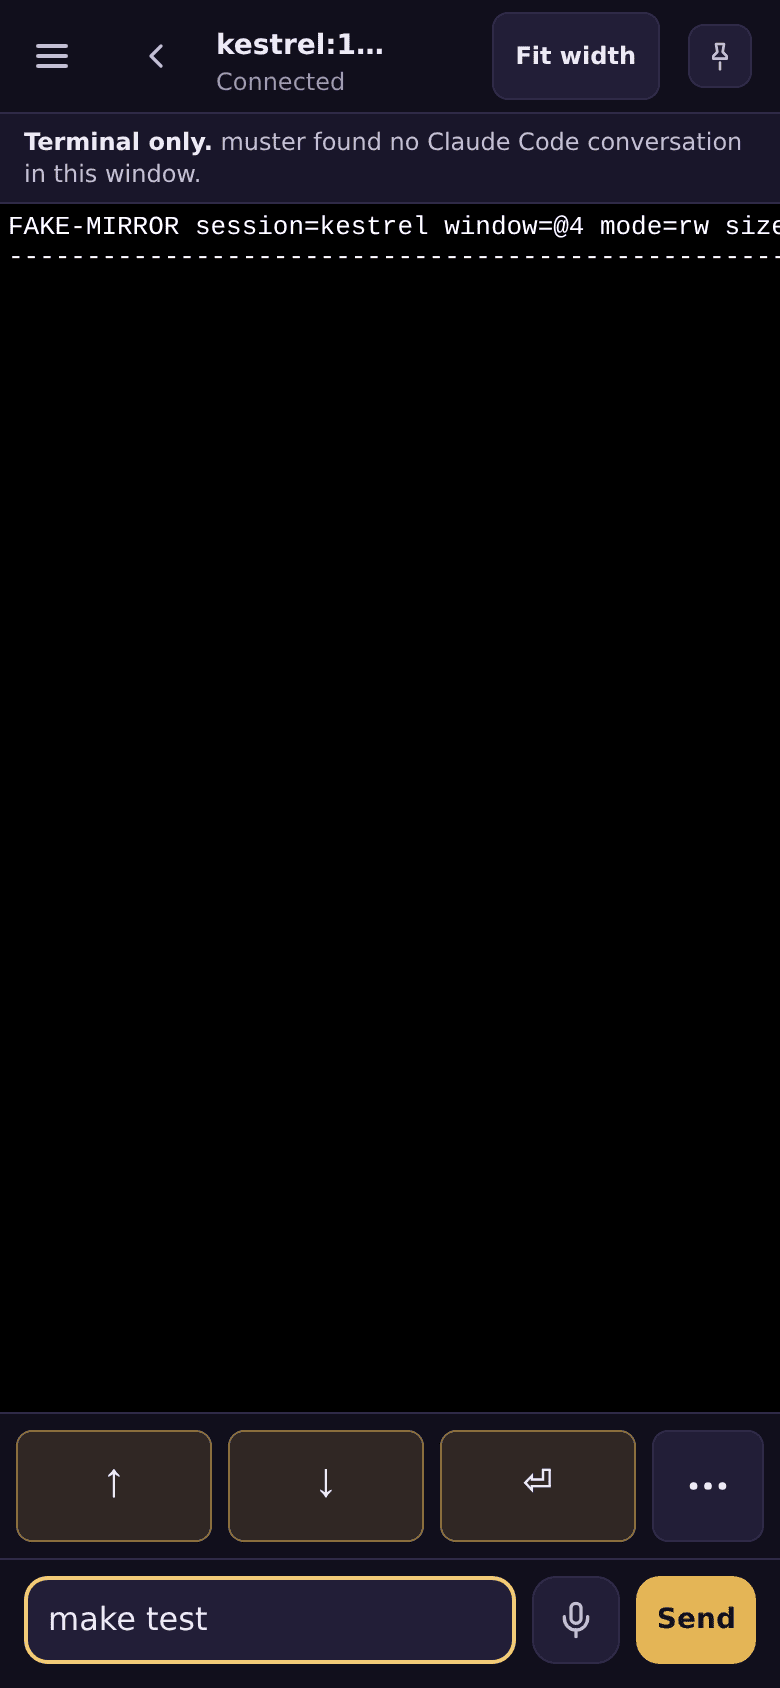
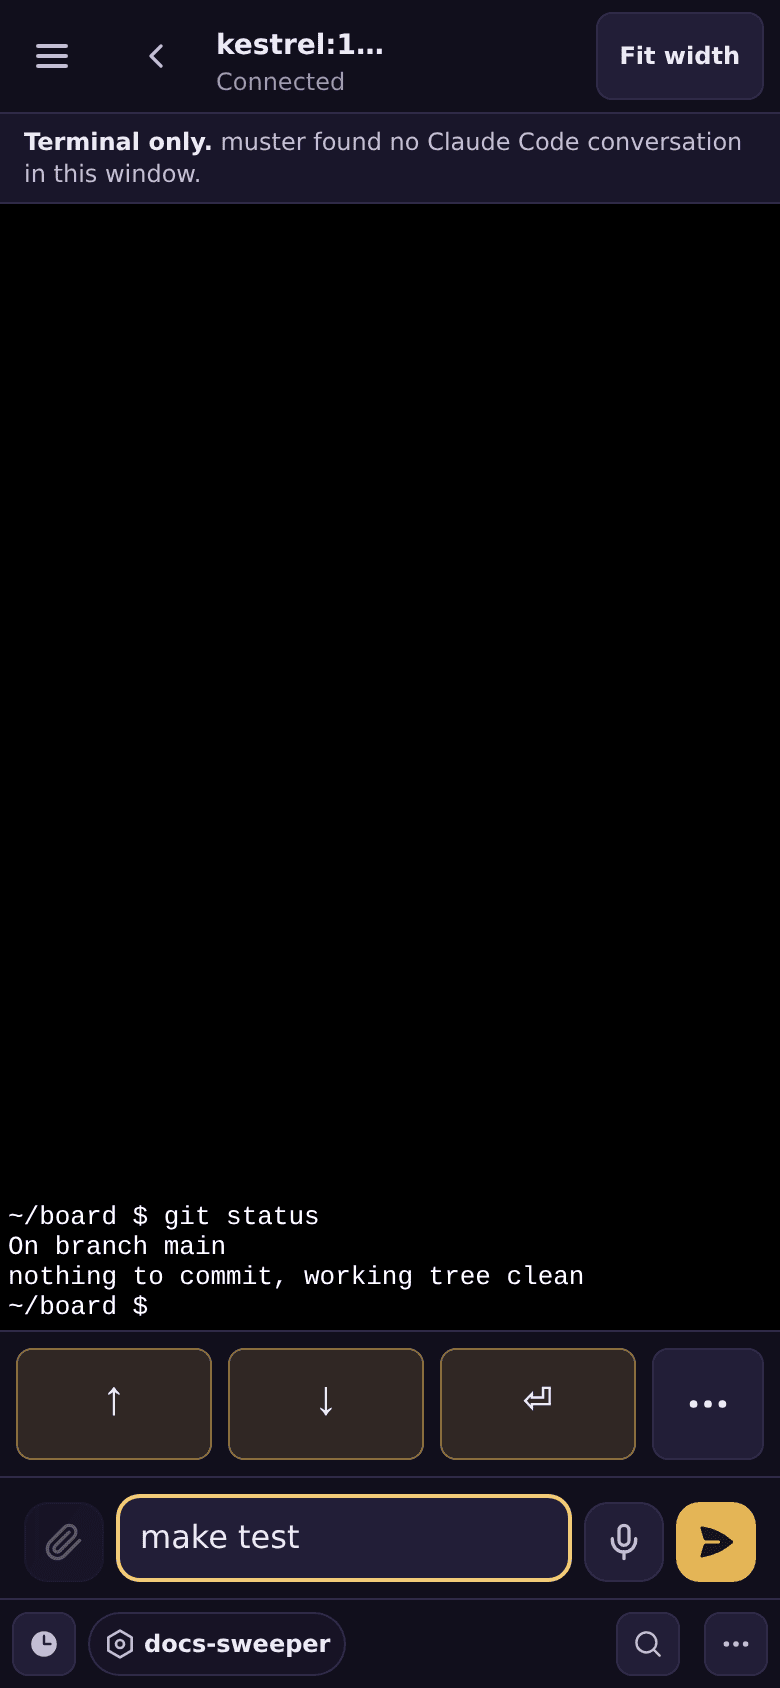
docshots: re-enable mirror-terminal.png with a bottom-drawn prompt (#623)
The "Terminal only" banner never covered the terminal: it is in normal
flow and <main> starts at its bottom edge. The shot was blank because the
docshots fake prints its only text on row 1 of a 120x40 window, taller than
a phone's terminal, and the Terminal view deliberately holds an overflowing
view at its bottom (atBottom), so row 1 is scrolled out of #term-scroll.

- e2emirror fake: opt-in MUSTER_MIRROR_E2E_PROMPT draws lines ending on the
  window's bottom row, where a real prompt is. No other spec sets it.
- docs.spec.ts: the docshots mirror sets it; mirror-terminal.png runs by
  default again and asserts rows with text are drawn inside #term-scroll's
  visible rect (red with the old fixture: 0 rows; green: 4).
- verdict.mjs DOCSHOTS_COUNT 12 -> 13; docs/testing.md updated.
- docs/img/mirror-terminal.png regenerated (pngquant).

Closes #623

diff --git a/e2e/docshots/docs.spec.ts b/e2e/docshots/docs.spec.ts
@@ -160,6 +160,9 @@ test.use({
 
 const serverEnv = () => ({ ...process.env, DATABASE_URL: dsn, MUSTER_PUBLIC_URL: browserURL, MUSTER_GOTRUE_URL: gotrueURL, MUSTER_GOTRUE_JWT_SECRET: gotrueSecret });
 
+// The terminal shot's shell, in the fake's MUSTER_MIRROR_E2E_PROMPT.
+const TERMINAL_LINES = ['~/board $ git status', 'On branch main', 'nothing to commit, working tree clean', '~/board $ '];
+
 function startMirror(name: string, file: string) {
   const token = execFileSync(serverBinary(versionA), ['mirror', 'token', 'create', name], { env: serverEnv() }).toString().trim();
   expect(token.startsWith('mmt_'), 'a mirror token was minted').toBe(true);
@@ -175,6 +178,11 @@ function startMirror(name: string, file: string) {
       MUSTER_MIRROR_E2E_WINDOWS_FILE: file,
       MUSTER_MIRROR_E2E_PASTE_FILE: pasteFile,
       MUSTER_MIRROR_E2E_WINDOW: '120x40',
+      // A shell's last lines, drawn ending on the window's bottom row, where a
+      // real prompt is: the 40-row window is taller than a phone's terminal,
+      // and the Terminal view holds such a view at its bottom, so the fake's
+      // row-1 banner alone left the terminal shot blank (#623).
+      MUSTER_MIRROR_E2E_PROMPT: TERMINAL_LINES.join('|'),
       // Re-read the windows often, so a session going waiting (the ask-flow's
       // question) reaches muster in a moment rather than on the 5 s default.
       MUSTER_MIRROR_E2E_REFRESH: '500ms',
@@ -445,18 +453,27 @@ test('dictation.png — the mic recording into the message box', async ({ page }
   await page.locator('#mv-input').fill('');
 });
 
-// 🔴 OPTED OUT UNTIL #623: regenerated, this shot is blank — the "Terminal
-// only" banner covers the terminal's first rows, the only ones with text — so
-// docs/img/mirror-terminal.png stays at the last good capture. Not a test.skip:
-// `verdict.mjs --docshots` refuses any skip. MUSTER_E2E_DOCSHOTS_TERMINAL=1 puts
-// it back (and verdict.mjs's DOCSHOTS_COUNT counts the default run only); when
-// #623 is fixed, drop the condition and raise DOCSHOTS_COUNT to 13.
-if (process.env.MUSTER_E2E_DOCSHOTS_TERMINAL === '1') test('mirror-terminal.png — the terminal view of a shell window', async ({ page }) => {
+// 🔴 THE SHOT MUST SHOW TERMINAL TEXT, not just hold it in the DOM: #623's
+// blank image had the fake's only line on row 1 of a window taller than the
+// page, scrolled out of #term-scroll by the view's bottom pin. The check counts
+// the rows drawn inside #term-scroll's visible rect that carry text.
+test('mirror-terminal.png — the terminal view of a shell window', async ({ page }) => {
   await signIn(page);
   await page.goto(browserURL + '/mirror/terminal?' + q(host, 'kestrel', '@4'));
   await expect(page.locator('#term .xterm-rows')).toContainText('FAKE-MIRROR', { timeout: 20_000 });
   await expect(page.locator('#mv-input')).toBeEnabled();
   await page.locator('#mv-input').fill('make test');
+  const visibleRows = () =>
+    page.evaluate(() => {
+      const box = document.getElementById('term-scroll')!.getBoundingClientRect();
+      return [...document.querySelectorAll('#term .xterm-rows > div')]
+        .filter((r) => {
+          const b = r.getBoundingClientRect();
+          return b.top >= box.top - 0.5 && b.bottom <= box.bottom + 0.5 && (r.textContent ?? '').trim() !== '';
+        })
+        .map((r) => (r.textContent ?? '').trim());
+    });
+  await expect.poll(async () => (await visibleRows()).length, { message: 'rows with text inside the visible terminal' }).toBeGreaterThan(0);
   await shoot(page, 'mirror-terminal.png');
 });
 

diff --git a/cmd/muster-mirror/e2emirror.go b/cmd/muster-mirror/e2emirror.go
@@ -417,6 +417,28 @@ func e2eAttachQueries() string {
 	return "\x1b[c\x1b[>c\x1b[6n\x1b[?1004h"
 }
 
+// e2ePrompt is what the fake writes last on every attach when
+// MUSTER_MIRROR_E2E_PROMPT is set: its lines (separated by "|"), drawn so the
+// last one sits on the window's BOTTOM row, where a real shell's prompt is
+// once it has any history. Without it the fake's only text is its banner on
+// row 1, which a window taller than the page never shows: the Terminal view
+// holds an overflowing view at its bottom on purpose (terminal.go, atBottom),
+// so row 1 is scrolled out of sight (#623). The cursor is put on the last row
+// with a row past any window's height (a terminal clamps it), then moved up to
+// the first of the lines; no newline follows the last one, so nothing scrolls.
+func e2ePrompt() string {
+	v := os.Getenv("MUSTER_MIRROR_E2E_PROMPT")
+	if v == "" {
+		return ""
+	}
+	lines := strings.Split(v, "|")
+	up := ""
+	if len(lines) > 1 {
+		up = fmt.Sprintf("\x1b[%dA", len(lines)-1)
+	}
+	return "\x1b[9999;1H" + up + strings.Join(lines, "\r\n")
+}
+
 // edgeLine is a ruler ending exactly at the client's last column with
 // RIGHT-EDGE, so a browser test can scroll to it: on a client wider than the
 // page it is off-screen until scrolled.
@@ -435,7 +457,7 @@ func (fakeBackend) Attach(_ context.Context, session string, readOnly bool, cols
 		mode = "ro"
 	}
 	t := &fakeTerm{r: pr, w: pw}
-	go t.say(fmt.Sprintf("FAKE-MIRROR session=%s mode=%s size=%dx%d\r\n", session, mode, cols, rows) + edgeLine(cols) + e2eAttachQueries())
+	go t.say(fmt.Sprintf("FAKE-MIRROR session=%s mode=%s size=%dx%d\r\n", session, mode, cols, rows) + edgeLine(cols) + e2eAttachQueries() + e2ePrompt())
 	return t, nil
 }
 
@@ -620,7 +642,7 @@ func (w windowFake) AttachWindow(_ context.Context, session, window string, read
 		mode = "ro"
 	}
 	t := &fakeTerm{r: pr, w: pw}
-	go t.say(fmt.Sprintf("FAKE-MIRROR session=%s window=%s mode=%s size=%dx%d\r\n", session, window, mode, cols, rows) + edgeLine(cols) + e2eAttachQueries())
+	go t.say(fmt.Sprintf("FAKE-MIRROR session=%s window=%s mode=%s size=%dx%d\r\n", session, window, mode, cols, rows) + edgeLine(cols) + e2eAttachQueries() + e2ePrompt())
 	return t, nil
 }
 

diff --git a/docs/testing.md b/docs/testing.md
@@ -190,9 +190,10 @@ PWA manifest's install-sheet screenshots.
 a temp dir so `docs/img/` is untouched, and `node verdict.mjs --docshots` judges
 the report: exactly the expected number of passes, all from `docs.spec.ts`, and
 no skip. CI's `docshots` job runs it on every change, so a UI change that breaks
-the generator goes red at once. `mirror-terminal.png` is left out of both runs
-until #623 (its terminal comes out blank); `MUSTER_E2E_DOCSHOTS_TERMINAL=1` puts
-it back.
+the generator goes red at once. The `mirror-terminal.png` shot also checks that
+rows with text are drawn inside the visible terminal, not just present in the
+page (#623: a fixture printing only on row 1 of a window taller than the page
+gave a blank image, because the Terminal view holds such a view at its bottom).
 
 ## What green does not prove
 
